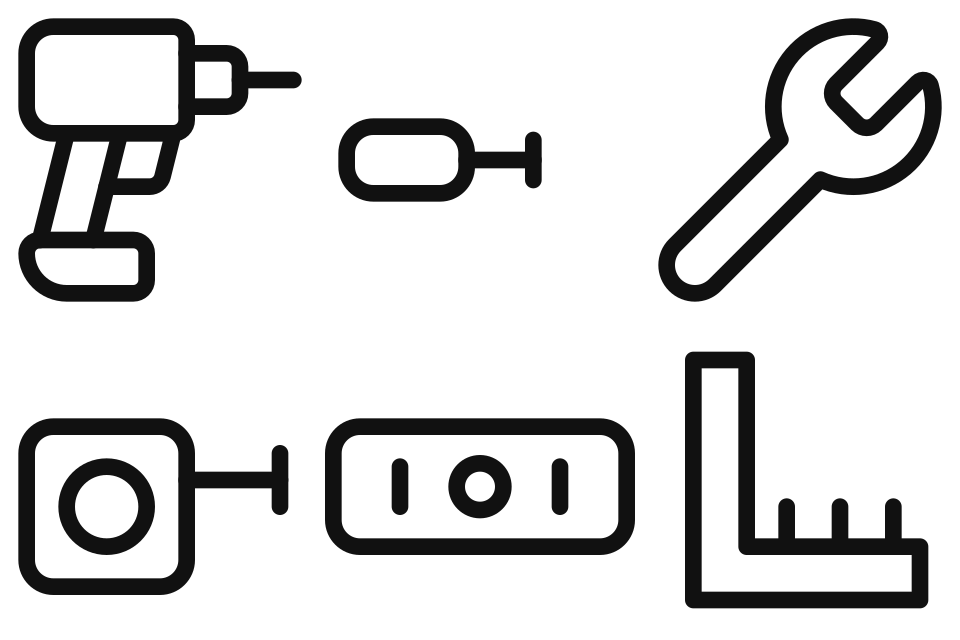
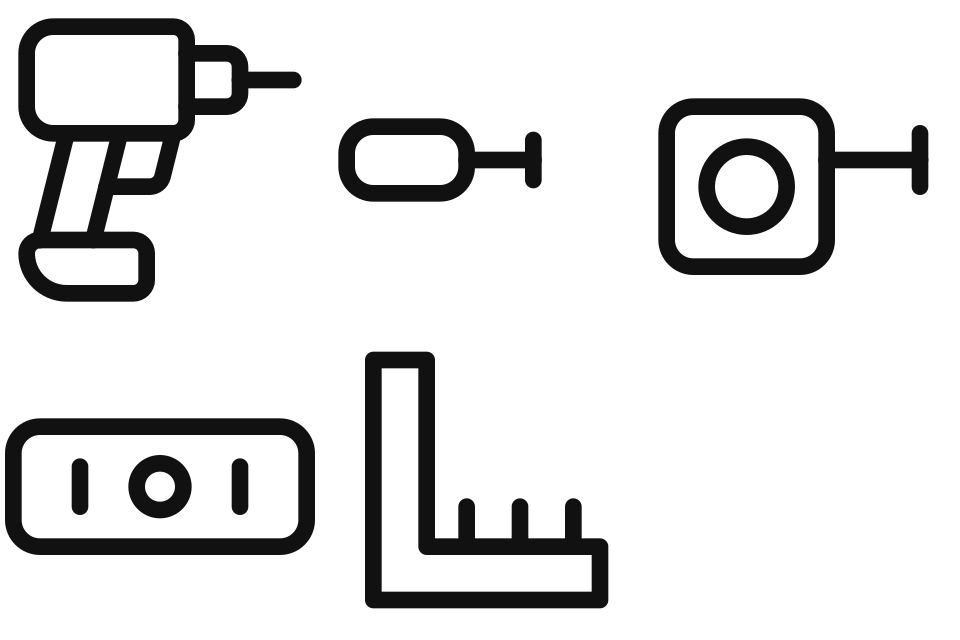
tekstrettelser fra gjennomlesningen: målte tall, ett navn på kilene
Seks strenger i modellen og emitterne som sa noe annet enn geometrien:

* beslaglistas låsenotat siterte «~9 kg» for plateenheten. Den veies av
  kroppene i modellen og veier 7,1 — nå hentes tallet derfra, som alle
  andre tall i den lista.
* nøkkelmålenes dybdeplan la «avstivningslektenes forkant» på Y 715, som er
  trinnenes bakkant. Lektene går til 750 og har gjort det siden V3. Y 750
  er en egen rad nå — platens, avstivningslektenes og kilelektenes forkant —
  og 752 er ikke lenger «platens forkant».
* kilelektene het «Tverrlekter» i nøkkelmålene og «Kilelekt» overalt ellers.
  Ett navn: Kilelekt.
* J12s forboringsnotat sa «lekta er tynn». Lekta er 48×73 på høykant siden
  V2. Grunnen til å forbore står nå: begge skruene er nær en ende, og lekta
  tas i endeveden.
* «Før du begynner» ba om fastnøkkel 10 mm. Det går ikke en gjenget del inn
  i denne sengen. Fastnøkkelen er ute av teksten og skiftenøkkelen ut av
  verktøyikonet.
* samme sted, og i steg 0: «den tynne bordbærelekta» — samme foreldede
  lekt.

Og avvik 2 kalte krokfestet ved stigefoten «mekanismens v2-punkt», som er
ett tegn unna revisjonskoden V2 i den samme setningen. Det heter krokpunktet.

Changed region(s): [[0.0, 0.5312, 0.9688, 0.9688], [0.6875, 0.0312, 1.0, 0.4688]]

diff --git a/tools/gen_doc_tables.py b/tools/gen_doc_tables.py
@@ -285,9 +285,8 @@ def build_steps(G):
                   "tvunget sammen.",
                 "Forsenk hodene på alle festemidler som ender i en veggvendt "
                   "flate. Beslaglista sier hvilke ledd det gjelder.",
-                "Forbor alle treskruer etter beslaglista. I bordene, i den "
-                  "tynne bordbærelekta og i all endeved er forboring et krav, "
-                  "ikke et råd.",
+                "Forbor alle treskruer etter beslaglista. I bordene og i "
+                  "all endeved er forboring et krav, ikke et råd.",
                 "Slå filtknotter under alle fire hjørnestolper og alle fire "
                   "stubbeføtter.",
             ],
@@ -1173,12 +1172,12 @@ def emit_nokkelmal(G, out_dir, rows):
         (G.LEDGER_BACK_Y0 + G.BOARD_T, "bordbærelektas forside"),
         (G.BACK_RAIL_Y1, "bakre sidevanges og benkevanges forside; "
                          "avstivningslektenes bakkant"),
-        (G.RUNG_Y0, "trinnenes bakkant (hylla platen hviler på); "
-                    "avstivningslektenes forkant"),
+        (G.RUNG_Y0, "trinnenes bakkant (hylla platen hviler på)"),
+        (G.BATTEN_Y1, "platens forkant; avstivningslektenes og kilelektenes "
+                      "forkant"),
         (G.FRONT_RAIL_Y0, "fremre sidevange og benkevange — bakkant"),
         (G.FRONT_RAIL_Y1, "fremre sidevanges forside = fremre stolpers og "
-                          "stigevangers bakside = spilebunnens og platens "
-                          "forkant"),
+                          "stigevangers bakside = spilebunnens forkant"),
         (G.FRONT_POST_Y1, "fremre stolpers og stigevangers forside = "
                           "trinnenes forkant"),
         (G.FRONT_GUARD_Y0, "rekkverksbordenes bakkant"),
@@ -1224,7 +1223,7 @@ def emit_nokkelmal(G, out_dir, rows):
     L.append(f"| Avstivningslekter (styrer platen) | "
              f"{_rng(G.BATTEN_X[0], G.BATTEN_X[0] + G.BATTEN_W)}"
              f" og {_rng(G.BATTEN_X[1], G.BATTEN_X[1] + G.BATTEN_W)} |\n")
-    L.append(f"| Tverrlekter under forkanten | "
+    L.append(f"| Kilelekter under forkanten | "
              f"{_rng(*G.NOSE_X[0])} og {_rng(*G.NOSE_X[1])} |\n")
     L.append(f"| Klaring lekt → trinnende | {G.PANEL_FIT} mm hver vei "
              f"(trinnendene står på X {G.LADDER_INNER_L} og "
@@ -1388,11 +1387,10 @@ PREP = [
     ("les", None,
      "**Les steg 0 først.** All saging og all boring skjer før noe reises."),
     ("verktoy", None,
-     "**Verktøy:** drill med bor, torxbits, fastnøkkel 10 mm, tommestokk, "
-     "vater og vinkelhake."),
+     "**Verktøy:** drill med bor, torxbits, tommestokk, vater og "
+     "vinkelhake."),
     ("forbor", None,
-     "**Forbor.** I bord, i den tynne bordbærelekta og i all endeved er "
-     "forboring et krav."),
+     "**Forbor.** I bordene og i all endeved er forboring et krav."),
     ("veggfeste-ja", "fritt-staaende-nei",
      "**Sengen skal skrus fast i veggen.** Den er ikke beregnet på å stå "
      "fritt — veggen er sperren på baksiden."),
@@ -1895,7 +1893,8 @@ def emit_beslagliste(out_dir, steps):
              "[ASSEMBLY, vedlegg B, avvik 4](../ASSEMBLY.md#vedlegg-b--aksepterte-avvik). "
              "Kort: madrassen ligger *oppå* platen og må fjernes før platen "
              "kan løftes, dette er underetasjen med ~26 cm fallhøyde, og "
-             "platen veier ~9 kg.\n\n"
+             "plateenheten veier "
+             f"{_fmt(round(_MODEL.PANEL_UNIT_MASS, 1))} kg.\n\n"
              "Trevirket for en ettermontert lås står likevel der det sto: "
              "**kilelektas endeved mot enden av den fremre benkevangen**, "
              f"tvers over de {_MODEL.LOCK_GAP} mm i sideklaringen, i samme "

diff --git a/tools/gen_glyphs.py b/tools/gen_glyphs.py
@@ -1046,9 +1046,11 @@ PICTOGRAMS: dict[str, tuple[str, object]] = {
     "dra-nei": ("Ikke dra delene over gulvet", "hanna/dra-nei"),
     "sorter": ("Sorter delene før du starter", "hanna/sorter"),
     "les": ("Les veiledningen først", "lucide/book-open"),
-    "verktoy": ("Verktøy: drill, torxbits, fastnøkkel, tommestokk, vater, "
-                "vinkelhake",
-                ["lucide/drill", "hanna/torx-driver", "lucide/wrench",
+    # V5: the spanner is gone with the last threaded fastener - there is
+    # nothing in this bed to put a 10 mm nut on, and a tool panel that shows
+    # one is a tool panel that sends somebody looking for it.
+    "verktoy": ("Verktøy: drill, torxbits, tommestokk, vater, vinkelhake",
+                ["lucide/drill", "hanna/torx-driver",
                  "hanna/tape-measure", "hanna/spirit-level",
                  "hanna/try-square"]),
     "forbor": ("Forbor før du skrur", "hanna/forbor"),

diff --git a/generate_loftbed.py b/generate_loftbed.py
@@ -2857,7 +2857,8 @@ JOINTS = [
              drive("Treskrue 5×60 forsenket Torx", 1, frm="bench_slat")])]),
     dict(id="J12", title="Bordbærelekt → bakre hjørnestolpe (endeskjøt)",
          n=2,
-         drill="⌀3 i stolpen og i lekta — forboring er et krav, lekta er tynn",
+         drill="⌀3 i stolpen og i lekta — forboring er et krav: begge skruene "
+               "står nær en ende, og lekta (48×73) tas i endeveden",
          side="Beslaget på stolpens innerflate, med den vannrette fliken "
               "UNDER lektas ende, så lekta har noe å hvile på og ikke bare "
               "henger i skruer",

diff --git a/docs/MONTERING.md b/docs/MONTERING.md
@@ -38,8 +38,8 @@ Ord og begrunnelser: [ASSEMBLY.md](ASSEMBLY.md). Full steg-for-steg-tekst: [bygg
 | <img src="img/ikon/underlag.svg" alt="underlag" height="72"> <img src="img/ikon/hake.svg" alt="ja" height="26"> | <img src="img/ikon/dra-nei.svg" alt="dra-nei" height="72"> <img src="img/ikon/kryss.svg" alt="nei" height="26"> | **Mykt underlag.** Bygg rammene flatt på papp eller teppe. Ikke dra delene over gulvet. |
 | <img src="img/ikon/sorter.svg" alt="sorter" height="72"> <img src="img/ikon/hake.svg" alt="ja" height="26"> |  | **Sorter delene** etter kapplista, og merk hver del på en flate som blir skjult. |
 | <img src="img/ikon/les.svg" alt="les" height="72"> <img src="img/ikon/hake.svg" alt="ja" height="26"> |  | **Les steg 0 først.** All saging og all boring skjer før noe reises. |
-| <img src="img/ikon/verktoy.svg" alt="verktoy" height="72"> <img src="img/ikon/hake.svg" alt="ja" height="26"> |  | **Verktøy:** drill med bor, torxbits, fastnøkkel 10 mm, tommestokk, vater og vinkelhake. |
-| <img src="img/ikon/forbor.svg" alt="forbor" height="72"> <img src="img/ikon/hake.svg" alt="ja" height="26"> |  | **Forbor.** I bord, i den tynne bordbærelekta og i all endeved er forboring et krav. |
+| <img src="img/ikon/verktoy.svg" alt="verktoy" height="72"> <img src="img/ikon/hake.svg" alt="ja" height="26"> |  | **Verktøy:** drill med bor, torxbits, tommestokk, vater og vinkelhake. |
+| <img src="img/ikon/forbor.svg" alt="forbor" height="72"> <img src="img/ikon/hake.svg" alt="ja" height="26"> |  | **Forbor.** I bordene og i all endeved er forboring et krav. |
 | <img src="img/ikon/veggfeste-ja.svg" alt="veggfeste-ja" height="72"> <img src="img/ikon/hake.svg" alt="ja" height="26"> | <img src="img/ikon/fritt-staaende-nei.svg" alt="fritt-staaende-nei" height="72"> <img src="img/ikon/kryss.svg" alt="nei" height="26"> | **Sengen skal skrus fast i veggen.** Den er ikke beregnet på å stå fritt — veggen er sperren på baksiden. |
 
 ---

diff --git a/docs/ASSEMBLY.md b/docs/ASSEMBLY.md
@@ -972,13 +972,14 @@ snuble i tvers over en passasje. Den koster bredde i en åpning som allerede er
 valg som kan tas med ett ord.
 
 **Valget er tatt (aug. 2026): (iii) — åpent, med plan.** Ingen av treklossene
-bygges. I stedet er dette merket som *mekanismens v2-punkt*: den riktige
+bygges. I stedet er dette merket som *krokpunktet*: den riktige
 løsningen er en **metallkrok ved stigefoten som låser i fremover-retningen** —
 en del som griper uten å okkupere noen av de fire fredede volumene, senkes på
 plass sammen med platen, og gir stigefoten toveis hold uten terskler eller
 smalere åpninger. Den bygges inn den dagen riktig beslag er funnet (kravene:
 låser +Y, monterbar ovenfra, bryter ikke platens innsettingsbane — se J13 og
-V2-loggen i modellen). Frem til da: platen som énveis stiver, J3 framover,
+V2-loggen i modellen; *krokpunktet* er navnet på stedet, ikke en
+revisjonskode). Frem til da: platen som énveis stiver, J3 framover,
 veggfestet for rammen — som målt over.
 
 *Betingelse:* platen **skal** alltid ligge i, i en av de to stillingene. Se 7.5.
